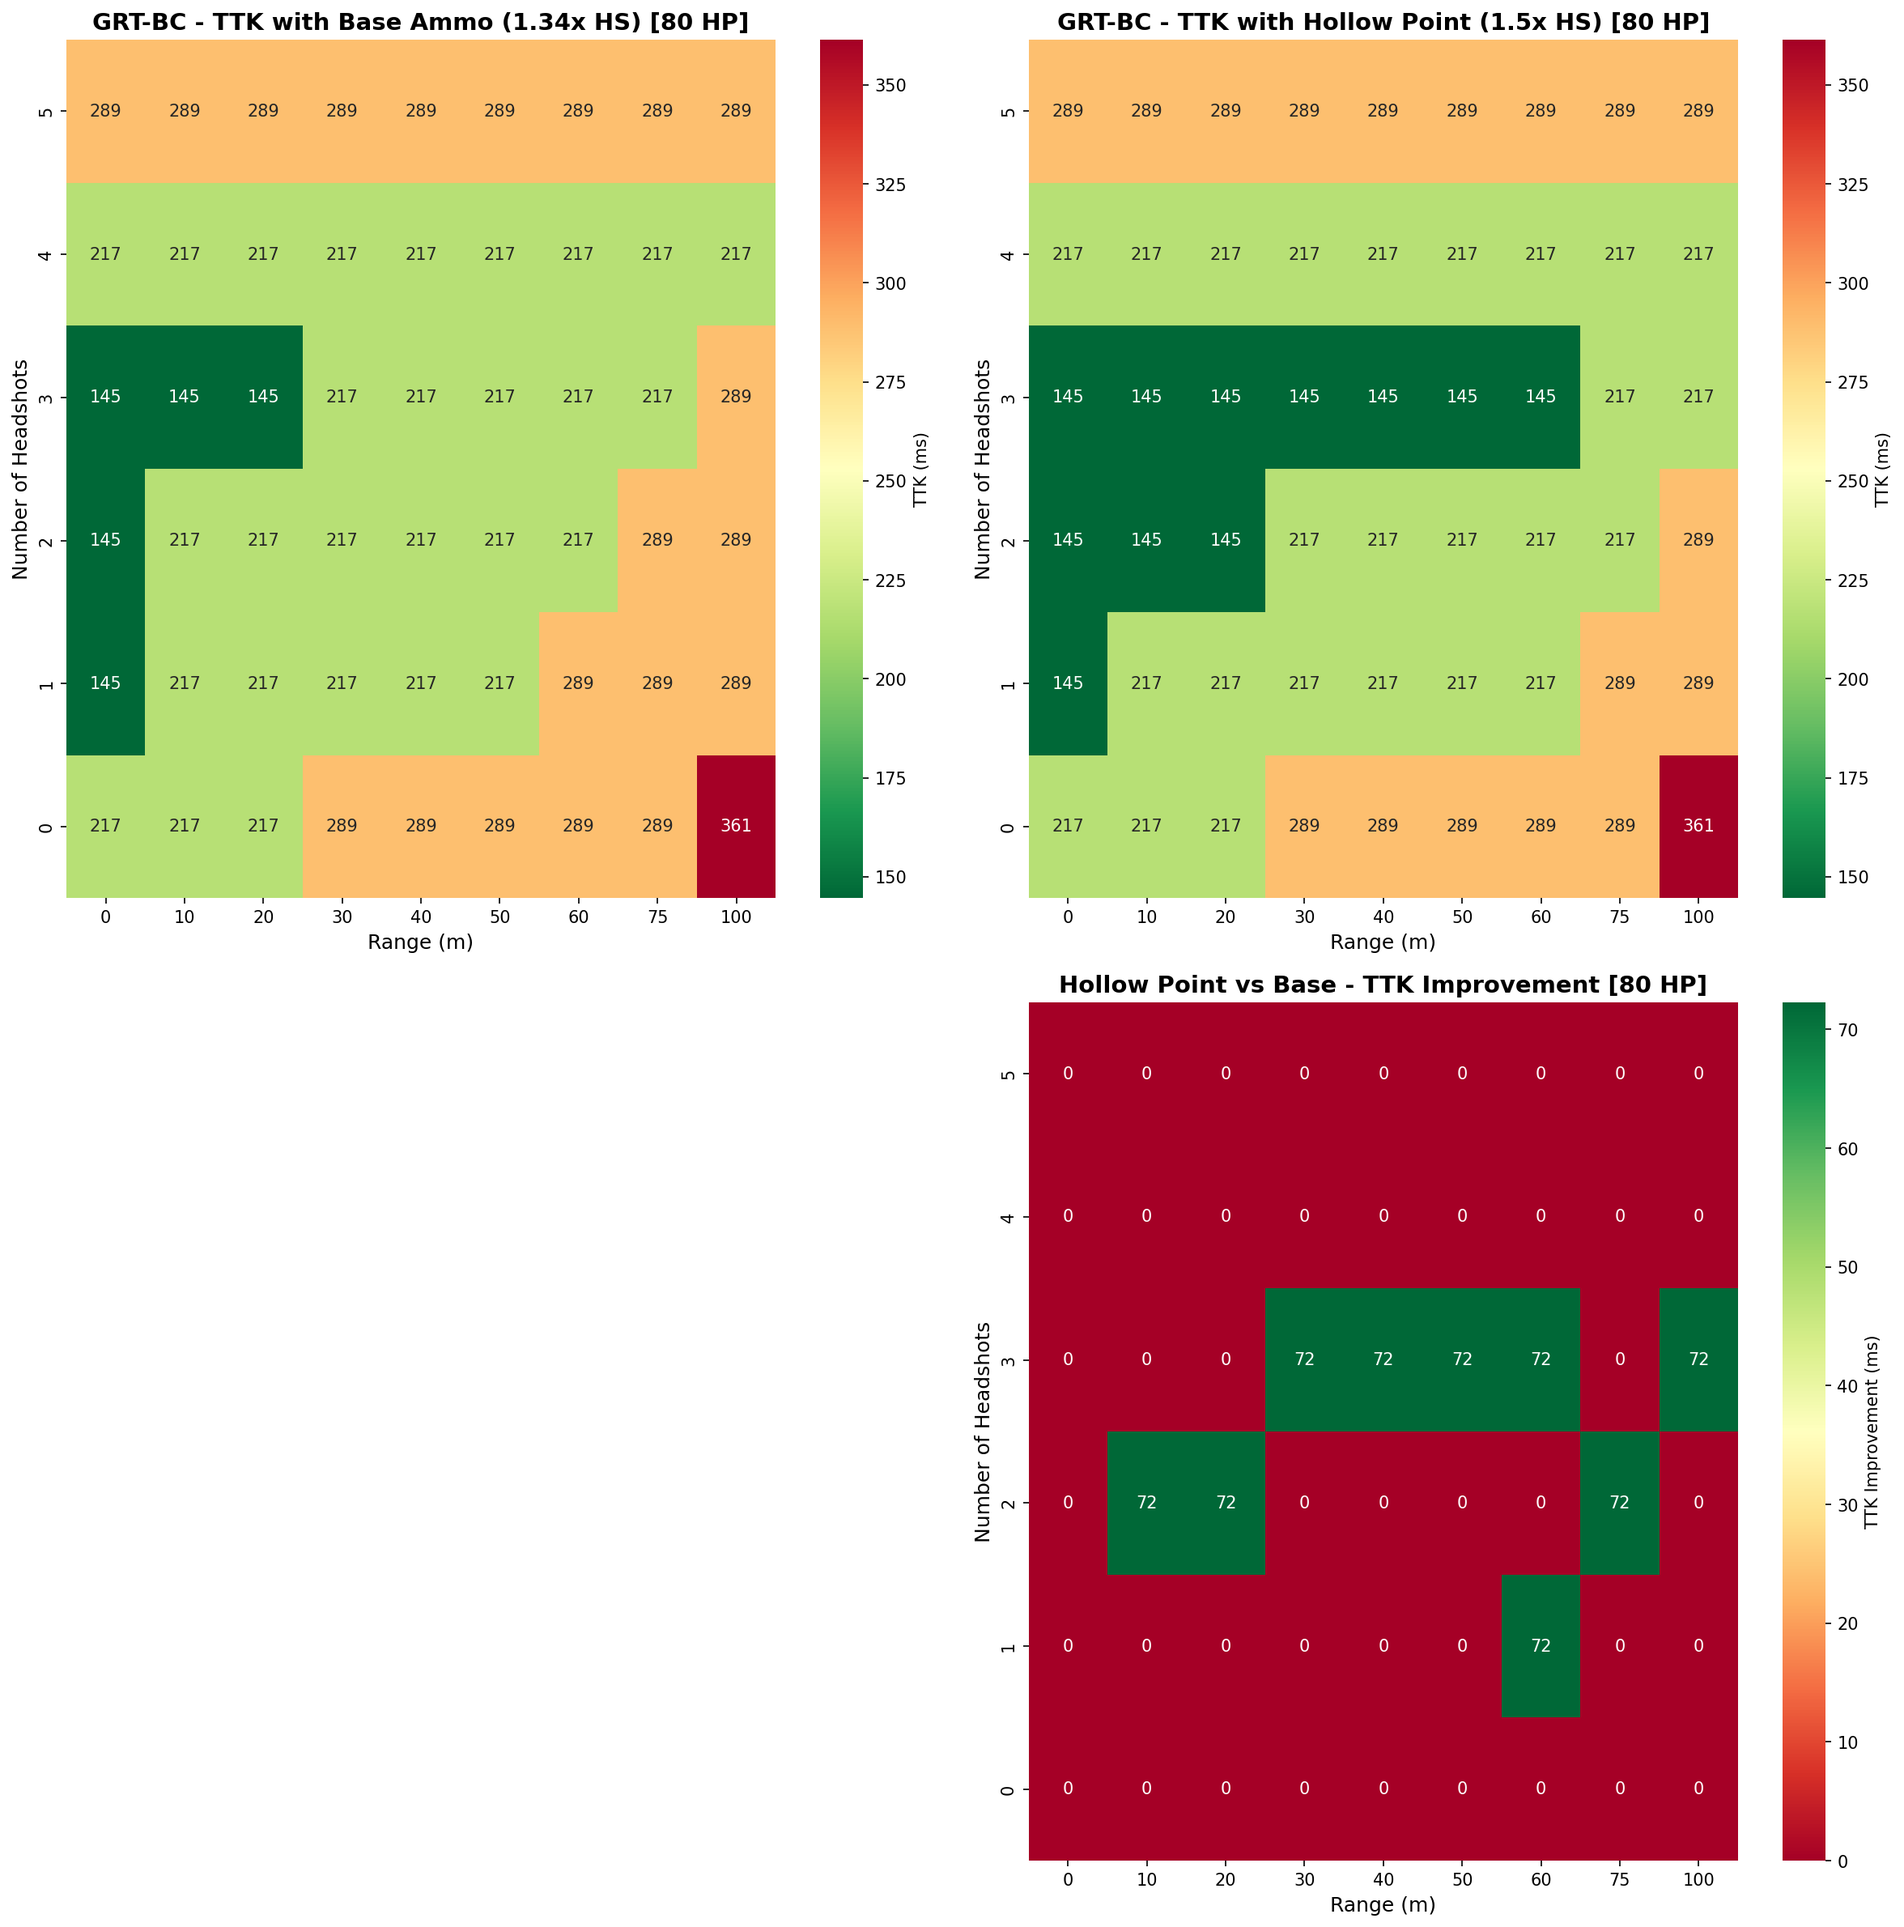
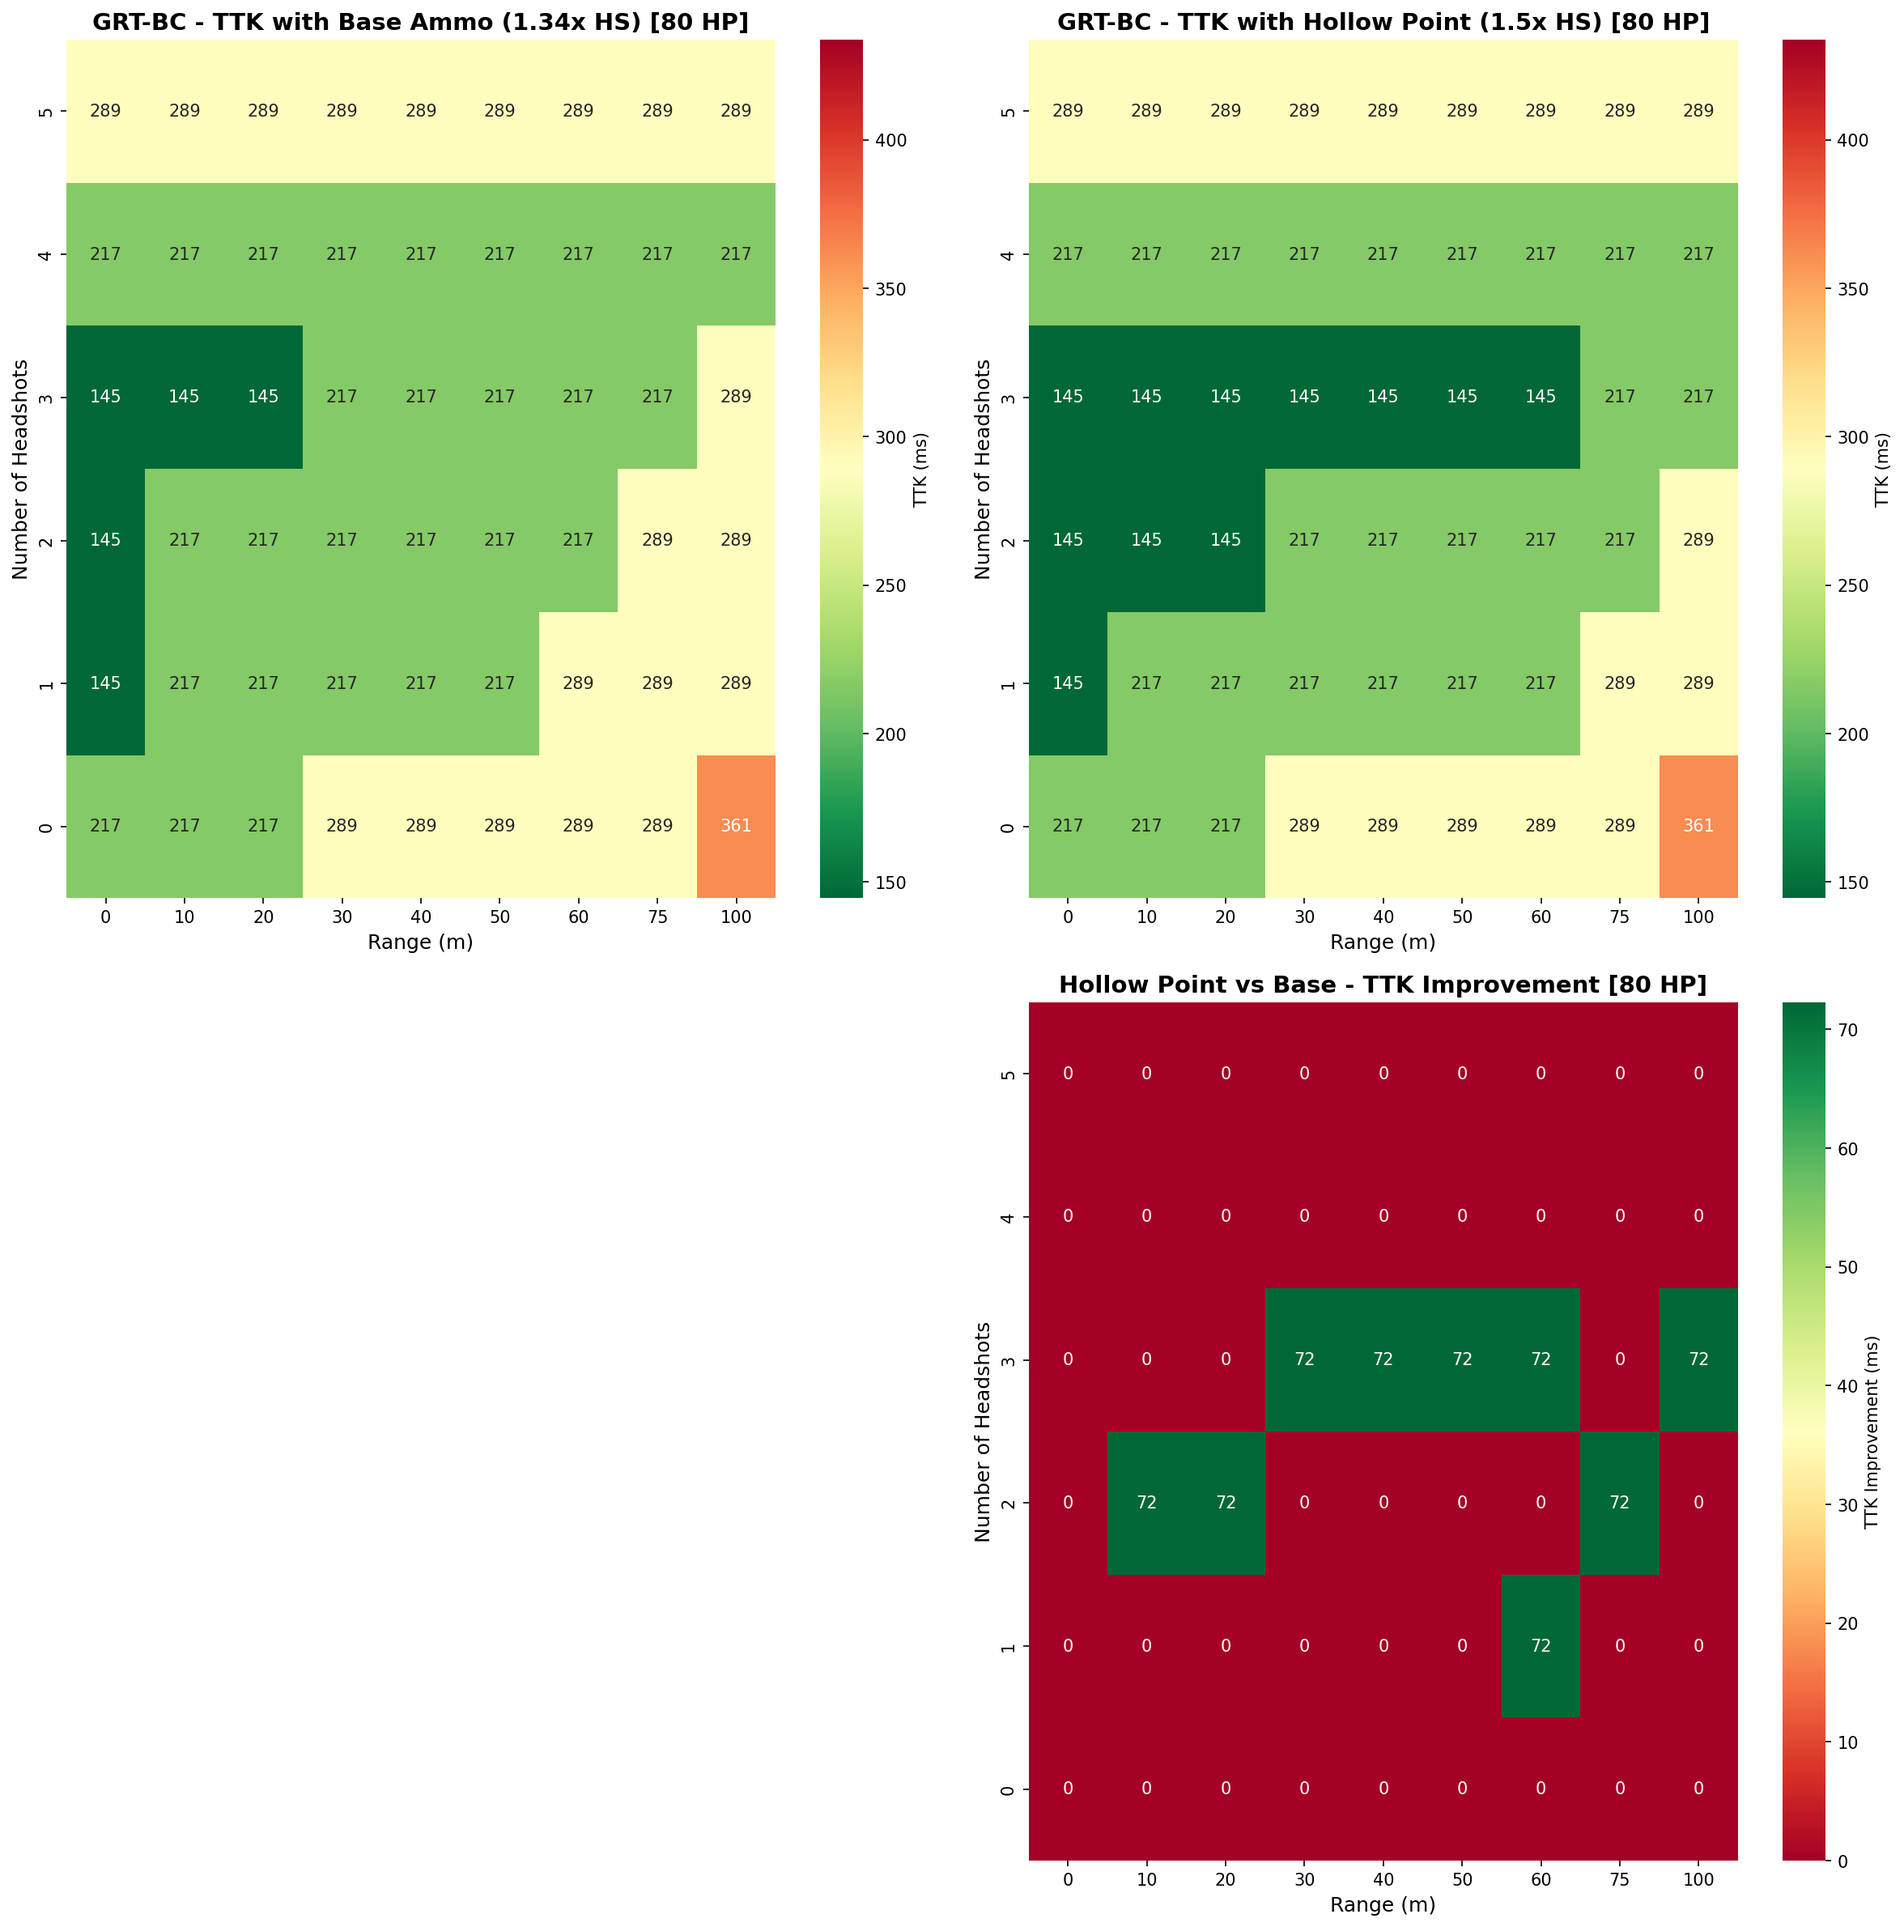
Update 80HP plots to use same color scale as 100HP for visual continuity

Changed region(s): [[0.031, 0.0, 0.4345, 0.4664], [0.5276, 0.0, 0.9311, 0.4664]]

diff --git a/analyze_ttk_all_weapons_80hp.py b/analyze_ttk_all_weapons_80hp.py
@@ -28,7 +28,7 @@ name_mapping = {
 }
 falloff_df['Gun'] = falloff_df['Gun'].replace(name_mapping)
 
-# Merge dataframes - Use 'Type' from falloff_df which is already there
+# Merge dataframes
 df = falloff_df[['Gun', 'Type', 'DMG_Close', 'DMG_10M', 'DMG_75M', 'ROF']].copy()
 df = df.merge(ammo_df[['Gun', 'Ammo Type']], on='Gun', how='left')
 
@@ -50,15 +50,14 @@ def extrapolate_damage(dmg_close, dmg_10m, dmg_75m, target_range):
         dmg_100m = max(dmg_100m, 10)  # Floor at 10 damage
         return np.interp(target_range, [75, 100], [dmg_75m, dmg_100m])
 
-# Constants - MODIFIED FOR 80HP
+# Constants
 BASE_HS_MULT = 1.34
 HP_MULT = 1.5
 SYNTH_MULT = 1.75
-TARGET_HP = 80  # <-- CHANGED FROM 100
 RANGES = [0, 10, 20, 30, 40, 50, 60, 75, 100]
 MAX_HS = 5
 
-def calculate_stk_ttk(base_dmg, rof, hs_mult, num_hs):
+def calculate_stk_ttk(base_dmg, rof, hs_mult, num_hs, target_hp):
     """Calculate STK and TTK for given parameters"""
     if base_dmg <= 0 or rof <= 0:
         return np.inf, np.inf
@@ -72,7 +71,7 @@ def calculate_stk_ttk(base_dmg, rof, hs_mult, num_hs):
         total_shots = num_hs + body_shots
         total_damage = (base_dmg * hs_mult * num_hs) + (base_dmg * body_shots)
         
-        if total_damage >= TARGET_HP:
+        if total_damage >= target_hp:
             stk = total_shots
             ttk = (stk - 1) * (60 / rof) * 1000  # in ms
             if stk < best_stk:
@@ -84,13 +83,12 @@ def calculate_stk_ttk(base_dmg, rof, hs_mult, num_hs):
 
 # Create output directories
 os.makedirs('visualizations/TTK_ANALYSIS_80HP', exist_ok=True)
-# Get all unique weapon classes and create folders
 unique_classes = df['Type'].unique()
 for weapon_class in unique_classes:
     os.makedirs(f'visualizations/TTK_ANALYSIS_80HP/{weapon_class}', exist_ok=True)
 
 print(f"\n{'='*80}")
-print(f"GENERATING TTK ANALYSIS FOR ALL WEAPONS (80 HP TARGET)")
+print(f"GENERATING TTK ANALYSIS FOR ALL WEAPONS (80 HP with 100 HP color scale)")
 print(f"{'='*80}\n")
 
 # Process each weapon
@@ -105,15 +103,43 @@ for idx, weapon_row in df.iterrows():
     
     print(f"Processing: {gun_name} ({weapon_class})")
     
-    # Calculate TTK for all ranges and headshot combinations
-    results = []
+    # Calculate TTK for BOTH 100HP and 80HP to find shared color scale
+    all_ttk_values = []
+    
+    for target_hp in [100, 80]:
+        for r in RANGES:
+            current_dmg = extrapolate_damage(dmg_close, dmg_10m, dmg_75m, r)
+            
+            for num_hs in range(MAX_HS + 1):
+                # Base ammo
+                _, base_ttk = calculate_stk_ttk(current_dmg, rof, BASE_HS_MULT, num_hs, target_hp)
+                if base_ttk != np.inf:
+                    all_ttk_values.append(base_ttk)
+                
+                # HP ammo
+                _, hp_ttk = calculate_stk_ttk(current_dmg, rof, HP_MULT, num_hs, target_hp)
+                if hp_ttk != np.inf:
+                    all_ttk_values.append(hp_ttk)
+                
+                # Synthetic ammo (if available)
+                if ammo_type == 'Synthetic':
+                    _, synth_ttk = calculate_stk_ttk(current_dmg, rof, SYNTH_MULT, num_hs, target_hp)
+                    if synth_ttk != np.inf:
+                        all_ttk_values.append(synth_ttk)
+    
+    # Calculate shared color scale
+    global_ttk_min = min(all_ttk_values)
+    global_ttk_max = max(all_ttk_values)
+    
+    # Now calculate 80HP results for plotting
+    results_80hp = []
     for r in RANGES:
         current_dmg = extrapolate_damage(dmg_close, dmg_10m, dmg_75m, r)
         
         for num_hs in range(MAX_HS + 1):
             # Base ammo
-            base_stk, base_ttk = calculate_stk_ttk(current_dmg, rof, BASE_HS_MULT, num_hs)
-            results.append({
+            base_stk, base_ttk = calculate_stk_ttk(current_dmg, rof, BASE_HS_MULT, num_hs, 80)
+            results_80hp.append({
                 'Range': r,
                 'Headshots': num_hs,
                 'Ammo': 'Base',
@@ -122,8 +148,8 @@ for idx, weapon_row in df.iterrows():
             })
             
             # HP ammo
-            hp_stk, hp_ttk = calculate_stk_ttk(current_dmg, rof, HP_MULT, num_hs)
-            results.append({
+            hp_stk, hp_ttk = calculate_stk_ttk(current_dmg, rof, HP_MULT, num_hs, 80)
+            results_80hp.append({
                 'Range': r,
                 'Headshots': num_hs,
                 'Ammo': 'HP',
@@ -133,8 +159,8 @@ for idx, weapon_row in df.iterrows():
             
             # Synthetic ammo (if available)
             if ammo_type == 'Synthetic':
-                synth_stk, synth_ttk = calculate_stk_ttk(current_dmg, rof, SYNTH_MULT, num_hs)
-                results.append({
+                synth_stk, synth_ttk = calculate_stk_ttk(current_dmg, rof, SYNTH_MULT, num_hs, 80)
+                results_80hp.append({
                     'Range': r,
                     'Headshots': num_hs,
                     'Ammo': 'Synth',
@@ -142,9 +168,9 @@ for idx, weapon_row in df.iterrows():
                     'TTK_ms': synth_ttk
                 })
     
-    df_results = pd.DataFrame(results)
+    df_results = pd.DataFrame(results_80hp)
     
-    # Create visualizations
+    # Create visualizations with SHARED color scale
     if ammo_type == 'Synthetic':
         # 2x3 grid for weapons with Synthetic access
         fig, axes = plt.subplots(2, 3, figsize=(24, 16))
@@ -157,9 +183,9 @@ for idx, weapon_row in df.iterrows():
         pivot_synth = df_results[df_results['Ammo'] == 'Synth'].pivot(index='Headshots', columns='Range', values='TTK_ms')
         pivot_synth = pivot_synth.iloc[::-1]
         
-        # Find shared color scale range for TTK plots
-        ttk_min = min(pivot_base.min().min(), pivot_hp.min().min(), pivot_synth.min().min())
-        ttk_max = max(pivot_base.max().max(), pivot_hp.max().max(), pivot_synth.max().max())
+        # USE GLOBAL COLOR SCALE (same as 100HP version)
+        ttk_min = global_ttk_min
+        ttk_max = global_ttk_max
         
         # Top Row: TTK Heatmaps
         # 1. Base ammo
@@ -231,9 +257,9 @@ for idx, weapon_row in df.iterrows():
         pivot_hp = df_results[df_results['Ammo'] == 'HP'].pivot(index='Headshots', columns='Range', values='TTK_ms')
         pivot_hp = pivot_hp.iloc[::-1]
         
-        # Find shared color scale range for TTK plots
-        ttk_min = min(pivot_base.min().min(), pivot_hp.min().min())
-        ttk_max = max(pivot_base.max().max(), pivot_hp.max().max())
+        # USE GLOBAL COLOR SCALE (same as 100HP version)
+        ttk_min = global_ttk_min
+        ttk_max = global_ttk_max
         
         # Top Row: TTK Heatmaps
         # 1. Base ammo
@@ -275,9 +301,9 @@ for idx, weapon_row in df.iterrows():
     plt.savefig(output_path, dpi=150, bbox_inches='tight', facecolor='white')
     plt.close()
     
-    print(f"  Saved: {output_path}")
+    print(f"  Saved: {output_path} (color scale: {ttk_min:.0f}-{ttk_max:.0f}ms)")
 
 print(f"\n{'='*80}")
-print(f"COMPLETED: All TTK analyses for 80 HP targets saved to visualizations/TTK_ANALYSIS_80HP/")
+print(f"COMPLETED: All 80HP TTK analyses with shared 100HP color scale")
 print(f"{'='*80}\n")
 
